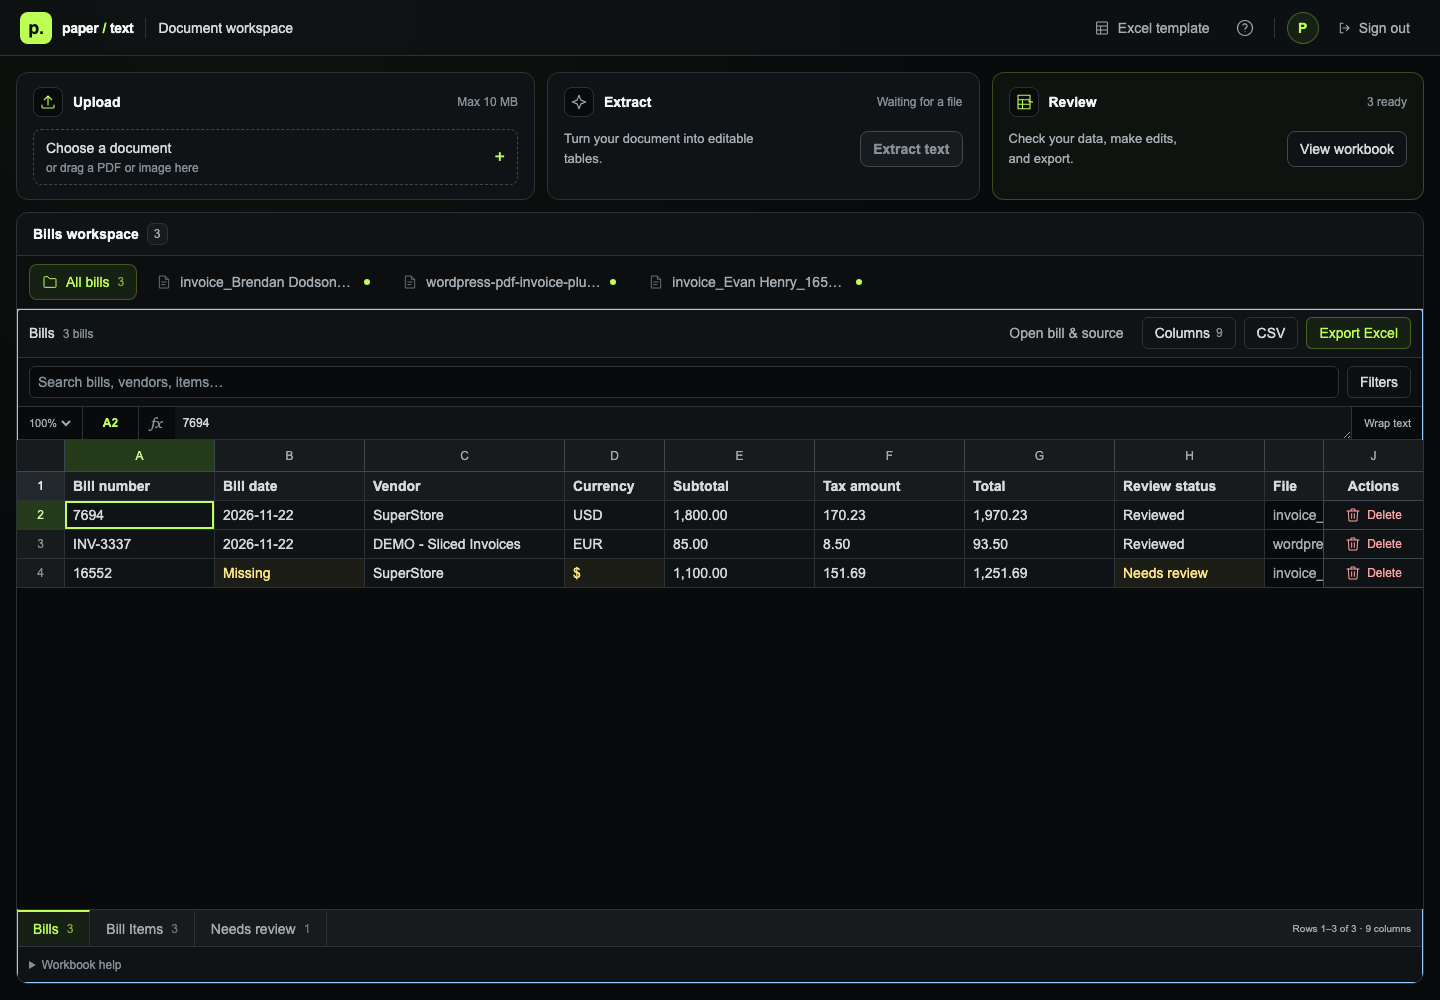
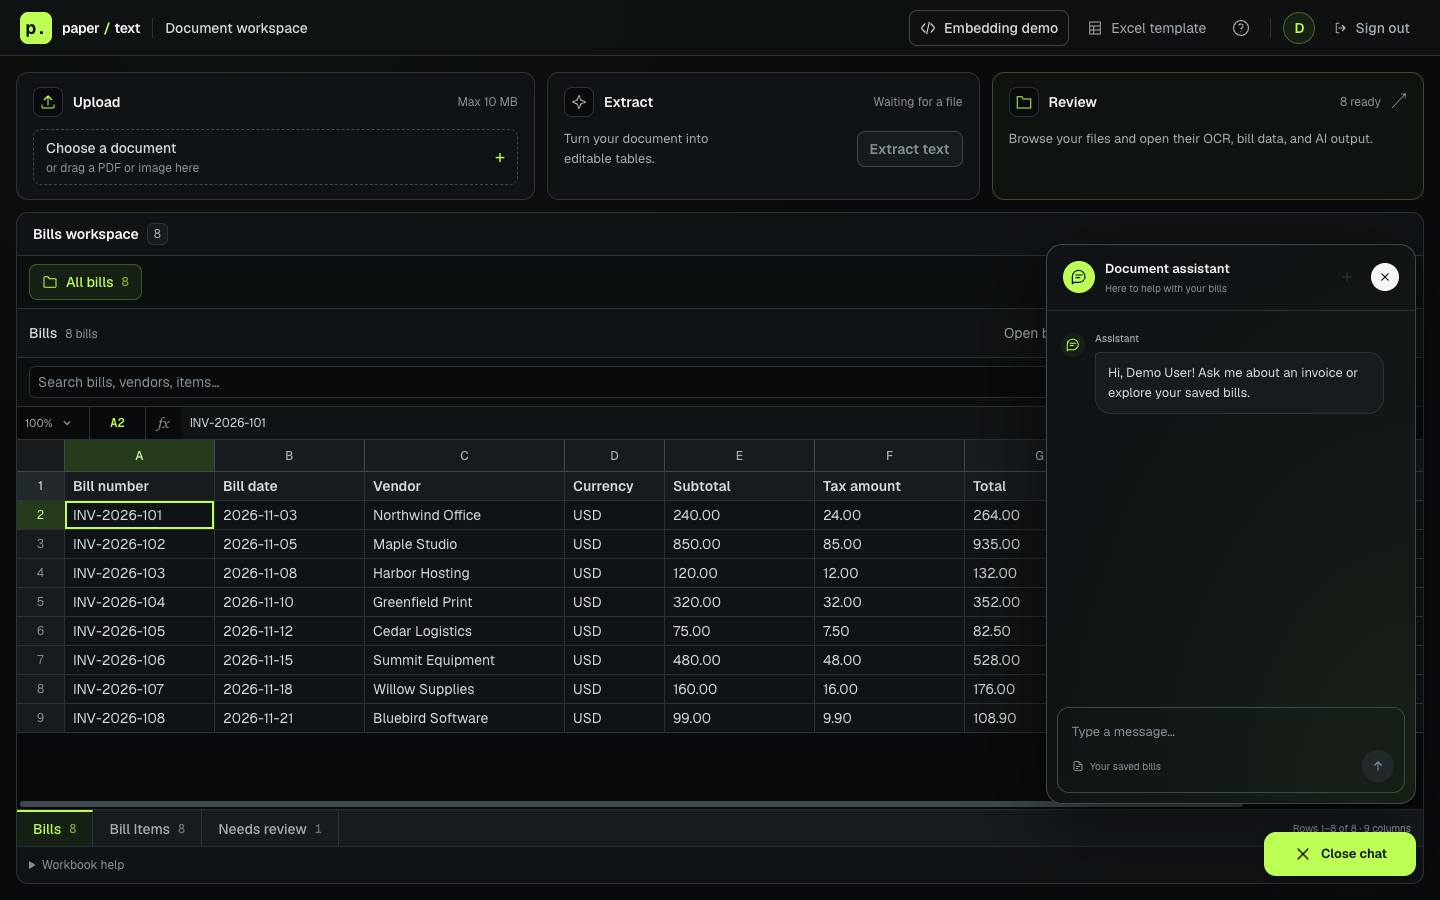
Update README.md

diff --git a/README.md b/README.md
@@ -1,10 +1,14 @@
 # Paper to Text
 
-Extract text from PDFs and images, classify financial documents with AI, and organize bills and line items in a full-width workbook. Review uncertain values against their OCR evidence, make corrections, and export related financial sheets. Signed-in users can return to saved results stored in Neo4j.
+Extract text from PDFs and images, organize financial documents in an editable workbook, and ask questions about your saved bills. Browse a searchable bills library, check values against the original OCR evidence, and export financial sheets. Signed-in users can return to saved documents stored in Neo4j.
 
-![Current workspace with Upload, Extract, and Review cards above the Bills workbook](docs/images/document-workbook.png)
+![Current dashboard with Upload, Extract, and Review cards, the Bills workbook, and the Document assistant open](docs/images/document-workbook.png)
 
-*Desktop workspace shown with sample bills.*
+*Current desktop dashboard with the Document assistant open and eight synthetic sample bills. Screenshots use demonstration data.*
+
+![Bills library with filename search, grid and list controls, and saved document cards](docs/images/bills-library.png)
+
+*The Review card opens the bills library. Select a file to inspect its bill data, original OCR JSON, and saved AI output.*
 
 ## Features
 
@@ -17,20 +21,25 @@ Extract text from PDFs and images, classify financial documents with AI, and org
 - Export a two-sheet Excel workbook or the visible table as CSV; download TXT and JSON from individual document views.
 - Sign in to restore saved financial documents or delete them from your history.
 - Repeated uploads of the same file reuse your existing job or saved document.
+- Browse saved bills in a searchable library with grid/list views and paginated loading.
+- Open dedicated document pages with **Bill & OCR**, **Original OCR JSON**, and **AI output** views.
+- Ask the **Document assistant** about saved bills, with expandable filename/page evidence for sourced answers. Simple counts, filename lists, and totals use saved database records.
+- Generate document and question embeddings locally with Nomic; answer generation uses the configured OpenRouter model.
+- Keep workbook edits, filters, selected cells, scroll position, and library state while navigating within the same browser tab.
 
-**Stack:** Next.js 16 · React 19 · TypeScript · Python · PyMuPDF · Tesseract · OpenRouter · Inngest · Neo4j.
+**Stack:** Next.js 16 · React 19 · TypeScript · Python · PyMuPDF · Tesseract · Nomic embeddings · OpenRouter · Inngest · Neo4j.
 
 ## Workspace layout
 
-The dashboard uses one compact header for branding, help, profile, sign-out, and the Excel template download. Three workflow cards sit in a single row above the workbook on wider screens and stack on small screens:
+The dashboard at `/workspace/dashboard` uses one compact header for branding, the embedding demo, help, profile, sign-out, and the Excel template download. Three workflow cards sit in a single row above the workbook on wider screens and stack on small screens:
 
 | Card | Controls and behavior |
 | --- | --- |
 | **Upload** | Choose or drag in a PDF or image. Shows the selected filename and size, with a **Preview** action. |
 | **Extract** | **Extract text** starts processing. The card shows whether a file is ready, text is being extracted, or data is being organized. |
-| **Review** | Shows the number of available workbooks. **View workbook** opens Bills, clears active filters, and brings the workbook into view. |
+| **Review** | Shows the number of ready bills and opens the saved-file library at `/workspace/documents`. |
 
-The workbook spans the page width. Horizontal document tabs switch between **All bills** and individual files. The combined workbook has three views:
+The workbook spans the page width. **All bills** combines the loaded records; pending or unsaved uploads can have temporary document tabs. Saved files open on dedicated document pages through the library or **Open bill & source**. The combined workbook has three views:
 
 | View | What it contains |
 | --- | --- |
@@ -38,7 +47,9 @@ The workbook spans the page width. Horizontal document tabs switch between **All
 | **Bill Items** | One row per product or service, linked to its parent bill by **Bill ID**. |
 | **Needs review** | A filtered view of the same bill rows with outstanding checks. Editing a value here updates the corresponding bill. |
 
-The combined workbook has no separate Documents overview or OCR sheets. Original text, OCR fields, and tables are available in each document's detail view. On small screens, the page scrolls vertically and document tabs and wide tables scroll horizontally.
+The bills library offers filename/bill-number search, grid and list views, and **Load more files**. Individual pages at `/workspace/documents/[id]` show the bill reviewer, original OCR JSON, and saved AI output. Original upload files are not retained; source views show saved extracted text and data. On small screens, the dashboard scrolls vertically and wide tables scroll horizontally.
+
+The floating **Document assistant** on the dashboard searches the signed-in user's saved bills. Closing and reopening it preserves the conversation in that tab; **New chat** or a browser reload clears it.
 
 ## Quick start
 
@@ -54,6 +65,8 @@ cd ai-invoice-ocr
 ### 2. Install for your operating system
 
 Run the commands for your OS from the project root. Copy `.env.example` only on initial setup; keep an existing `.env.local`.
+
+`python/requirements.txt` contains both OCR and local embedding dependencies. Model weights are downloaded separately; see [local embedding setup](docs/guides/embeddings.md).
 
 #### macOS — Terminal
 
@@ -118,6 +131,24 @@ Replace the app name placeholder in `OPENROUTER_APP_NAME` and keep `OPENROUTER_A
 
 Keep credentials in `.env.local`, which Git ignores. See [.env.example](.env.example) for all settings. Restart the app after configuration changes.
 
+#### Enable document search and chat
+
+Download the local embedding model after installing the Python requirements:
+
+```bash
+npm run download:embeddings
+```
+
+Set these additional values in `.env.local`:
+
+```dotenv
+EMBEDDINGS_ENABLED=1
+EMBEDDING_MODEL_PATH=.data/models/nomic
+EMBEDDING_DEVICE=cpu
+```
+
+This uses local `nomic-embed-text-v1.5` inference with 768-dimensional vectors. No Nomic API key is needed. Document indexing runs through Inngest after financial saving; chat questions run directly in the request. `OPENROUTER_CHAT_MODEL` optionally overrides `OPENROUTER_MODEL` for answers. See [local embeddings](docs/guides/embeddings.md) for Windows commands, existing-document indexing, and status checks.
+
 ### 4. Start the app
 
 Check the database connection first:
@@ -143,7 +174,7 @@ In a second terminal, from the project root:
 npm run dev:inngest
 ```
 
-Open [the app](http://localhost:3000). Inspect background runs in [Inngest](http://localhost:8288). The first Inngest launch downloads its CLI. If Next.js uses a different port, update the target URL in the `dev:inngest` command in `package.json`.
+Open [the app](http://localhost:3000). After sign-in, it redirects to `/workspace/dashboard`; the bills library is at `/workspace/documents`. Inspect background runs in [Inngest](http://localhost:8288). The first Inngest launch downloads its CLI. If Next.js uses a different port, update the target URL in the `dev:inngest` command in `package.json`.
 
 ## Usage
 
@@ -152,7 +183,9 @@ Open [the app](http://localhost:3000). Inspect background runs in [Inngest](http
 1. Sign up or sign in. Saved financial documents load into the workspace automatically.
 2. Choose a file in the **Upload** card or drag it onto the workflow cards. Use **Preview** to inspect the selected file.
 3. Select **Extract text**. Review extracted text while AI classification and financial mapping finish.
-4. Select **View workbook** for the combined Bills table, or use a document tab to inspect one file.
+4. Review the combined **All bills** workbook. Select **Review** to browse saved files, or select a workbook row and choose **Open bill & source** to inspect that document.
+
+After successful extraction, or when a duplicate upload opens an existing document, the Upload card clears its selected file and preview so you can choose the next document. The extracted result remains in the workspace. If extraction fails, the file stays selected for retry.
 
 ### Find and edit financial data
 
@@ -161,7 +194,7 @@ The default Bills columns show bill number, date, vendor, currency, subtotal, ta
 - **Search** matches filenames, bill numbers, vendors, and item data.
 - **Filters** reveals vendor, currency, review-status, and bill-date controls. Use **Clear filters** to reset them. Date filtering includes only unambiguous `YYYY-MM-DD` bill dates.
 - **Columns** lets you select individual fields, restore **Essential** columns, or **Show all**. Additional fields include Bill ID, processing status, page count, storage state, and review notes.
-- **Double-click** a financial cell to edit it, or use the selected-cell value bar. Bill IDs and source metadata are read-only. Pending uploads and unavailable legacy fields cannot be edited.
+- **Double-click** a financial cell to edit it, or use the selected-cell value bar. The inline editor stays within the cell without expanding the row. **F2** starts editing, **Enter** saves, and **Escape** cancels. Bill IDs and source metadata are read-only. Pending uploads and unavailable legacy fields cannot be edited.
 - **Needs review** highlights missing or uncertain values in amber. A printed `$` can remain visible while its exact currency code is unconfirmed.
 - **Mark reviewed** is available when the selected bill's missing values and validation warnings have been resolved. Review status belongs to the bill, including when this action is used from Bill Items.
 
@@ -169,11 +202,27 @@ Select a saved bill row and use **Delete** to remove that bill and its related s
 
 ### Inspect source evidence and review notes
 
-Select a row and choose **Open bill & source**, or open its document tab. **Source evidence & standardized values** shows extracted or edited values beside unambiguous standard forms and the original, read-only OCR text. Detailed checks explain missing values, date ambiguity, currency uncertainty, and other validation warnings. Older saved bills without a complete OCR snapshot retain their available source sheets.
+Select a row and choose **Open bill & source**, or open a saved file from the bills library. **Source evidence & standardized values** shows extracted or edited values beside unambiguous standard forms and the original, read-only OCR text. Detailed checks explain missing values, date ambiguity, currency uncertainty, and other validation warnings. Older saved bills without a complete OCR snapshot retain their available source sheets.
 
 The **Review notes** column contains short checklists such as `Currency unconfirmed; Check bill date`. It shows up to four distinct summaries and a count of additional checks. Complete explanations remain in the bill's review panels. Item review notes contain item-specific checks rather than repeating every bill warning. The generic AI disclaimer is omitted from exported Notes; user-entered notes are retained.
 
 Individual document views also provide bill data, fields and tables, readable text, original text, and JSON output.
+
+### Ask questions about your bills
+
+Open the floating chat button on the dashboard and ask, for example:
+
+- “How many bills do I have?”
+- “List my uploaded filenames.”
+- “What is my total spending?”
+- “What payment terms are listed on invoice 123?”
+- “Summarize all my documents.”
+
+Simple counts, filename lists, and totals read owned database records directly, even before text indexing is ready. Totals keep currencies separate and disclose excluded amounts or unknown currencies; they do not establish payment status.
+
+For document questions, the server embeds the question locally, compares it with the user's indexed OCR chunks in Neo4j, and sends up to six relevant excerpts to the configured OpenRouter answer model. Expand a source card to inspect the exact excerpt and page. Naming an invoice or filename can narrow the scope, and short follow-ups can retain that document context.
+
+Complete summaries use all indexed chunks within a 40-chunk/40,000-character limit. Missing indexing or oversized scopes return an explanation. Filtered calculations and complete ranked comparisons are not implemented. See [document chatbot](docs/guides/chat.md) for configuration and limits.
 
 ### Export and return to saved results
 
@@ -185,20 +234,25 @@ Individual document views also provide bill data, fields and tables, readable te
 
 Excel preserves values as text to retain leading zeros, printed number formats, and ambiguous dates. Amounts are not converted to numeric Excel cells; convert verified values before using spreadsheet calculations. Existing downloads are not changed when data or review notes are updated—export again for a new copy.
 
-Saved financial documents reload for the signed-in account. Browser corrections and **Mark reviewed** changes are not automatically saved to Neo4j; export them before refreshing or leaving. Refreshing restores the original saved result.
+Saved financial documents reload for the signed-in account. Workbook edits, filters, selection, and scroll position survive client navigation between the dashboard and document pages in the same tab. Browser corrections and **Mark reviewed** changes are not automatically saved to Neo4j; export them before refreshing or closing the tab. Refreshing restores the original saved result, and signing out clears the in-memory workspace state.
 
 ## Limits and data handling
 
 - **Uploads:** up to 10 MB, 1–20 PDF pages, or 20 million pixels per image. Extraction times out after 120 seconds.
 - **Accuracy:** English OCR; complex layouts and handwriting may need correction. Review AI results before using them.
 - **AI processing:** extracted text is sent to OpenRouter. Original PDFs and images are not sent. Mapping has a separate text budget, so larger documents may need splitting.
+- **Chat:** document and question embeddings run locally. Retrieved OCR excerpts, the question, and bounded conversation history go to the configured OpenRouter answer provider. Chat questions and answers are not persisted by the application. Source-reference checks do not guarantee factual correctness.
 - **Storage:** uploaded files are removed after extraction. Temporary jobs expire after 24 hours; saved OCR text and AI results remain in Neo4j until deleted. Unsupported financial classifications keep text available only in the current browser session.
 
 ## Documentation
 
-- [Architecture and AI workflow](docs/architecture.md)
-- [Database and saved history](docs/database.md)
-- [Development, checks, and project structure](docs/development.md)
-- [Deployment](docs/deployment.md)
+- [Documentation index](docs/README.md)
+- [Architecture and AI workflow](docs/architecture/overview.md)
+- [Database and saved history](docs/architecture/database.md)
+- [Development, checks, and project structure](docs/guides/development.md)
+- [Deployment](docs/guides/deployment.md)
+- [Local embeddings](docs/guides/embeddings.md)
+- [Bills library and navigation state](docs/guides/documents.md)
+- [Document chatbot](docs/guides/chat.md)
 - [Backend layout](lib/server/README.md) · [API reference](docs/api/API.md)
 - [Dataset and schema](data/bills/README.md) · [Environment template](.env.example)
